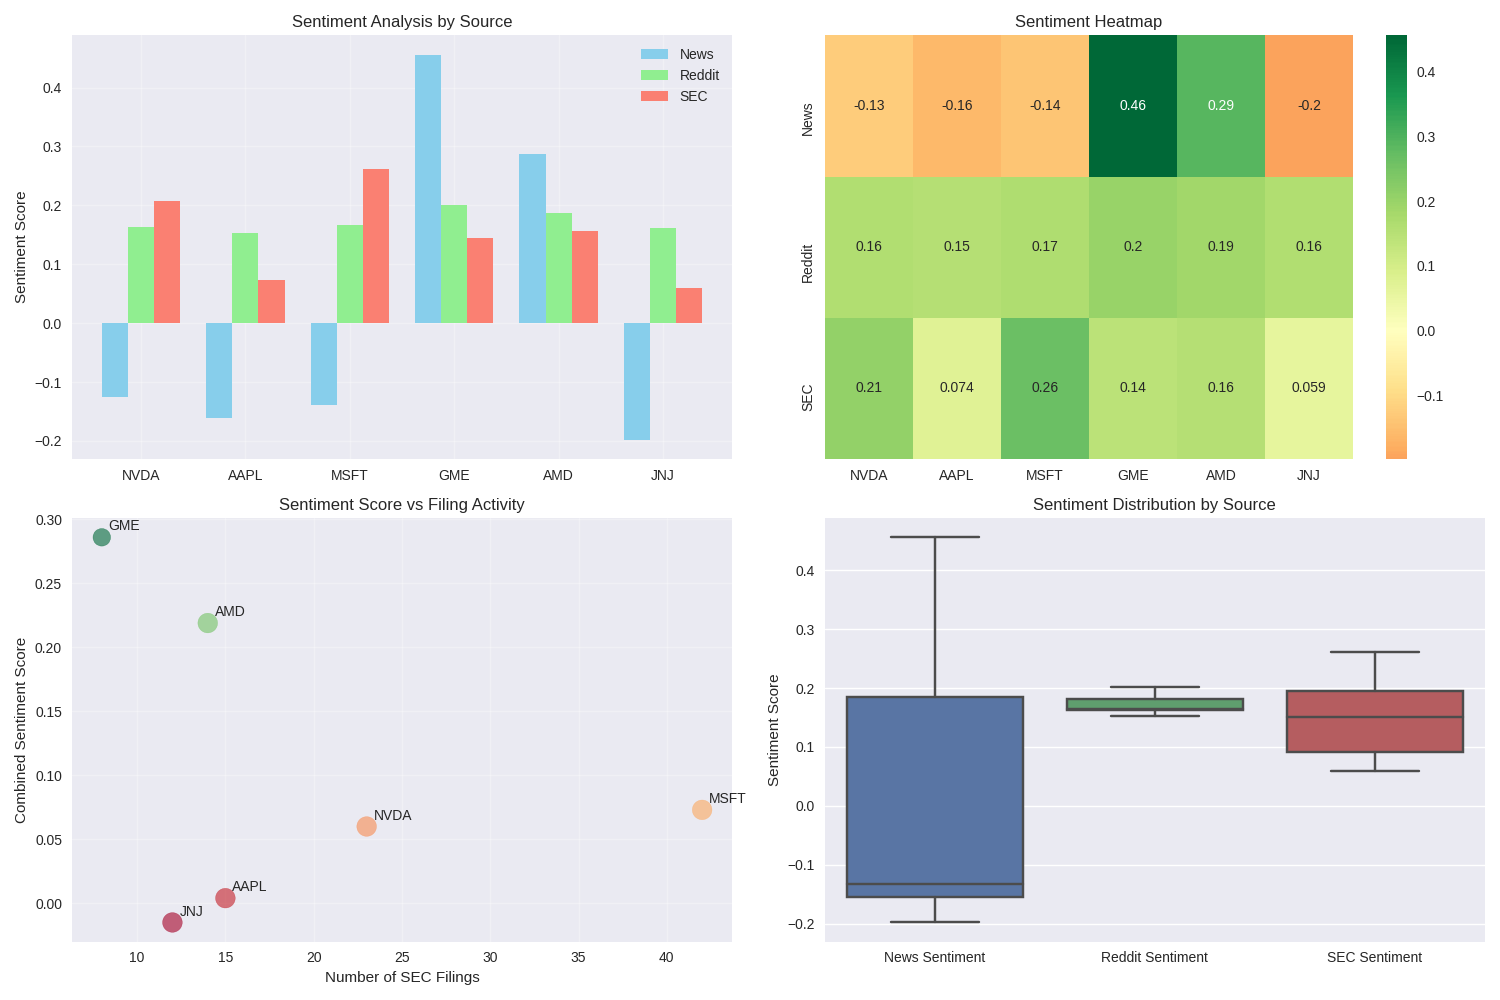
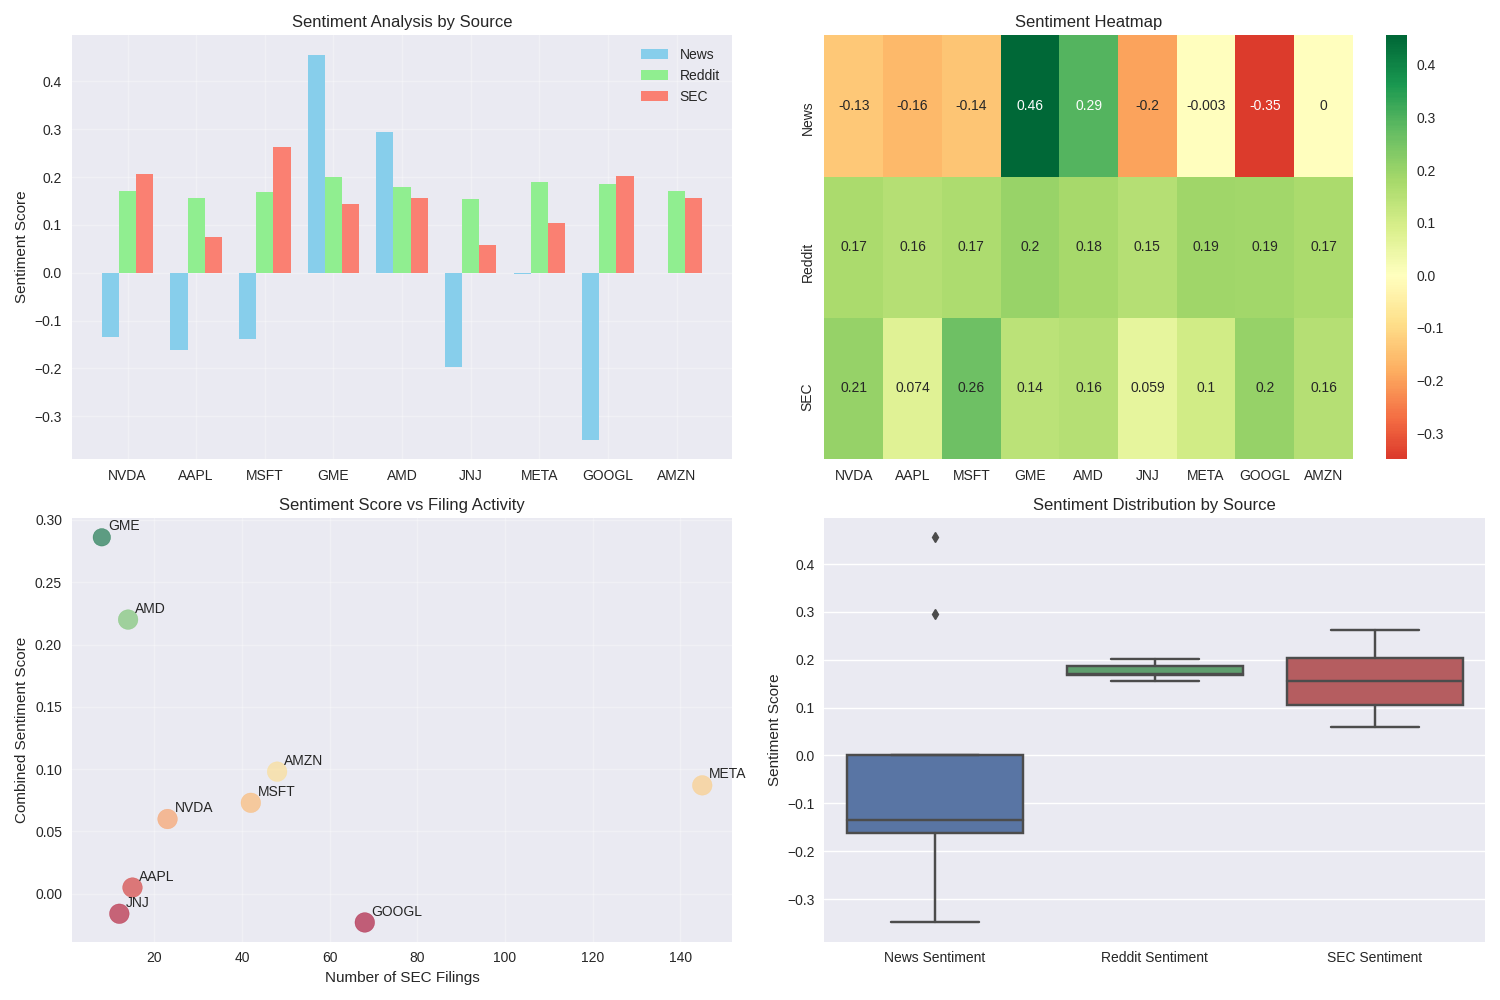
Add Git LFS tracking and update test files

diff --git a/tests/unit/test_sentiment.py b/tests/unit/test_sentiment.py
@@ -212,6 +212,6 @@ if __name__ == "__main__":
     
     # Only proceed with visualization if we have results
     if results_df is not None:
-        symbols = ['NVDA', 'AAPL', 'MSFT', 'GME', 'AMD', 'JNJ']
+        symbols = ['NVDA', 'AAPL', 'MSFT', 'GME', 'AMD', 'JNJ', 'META', 'GOOGL', 'AMZN']
         visualize_sentiment_analysis(results_df, symbols)
         analyze_sentiment_impact()
